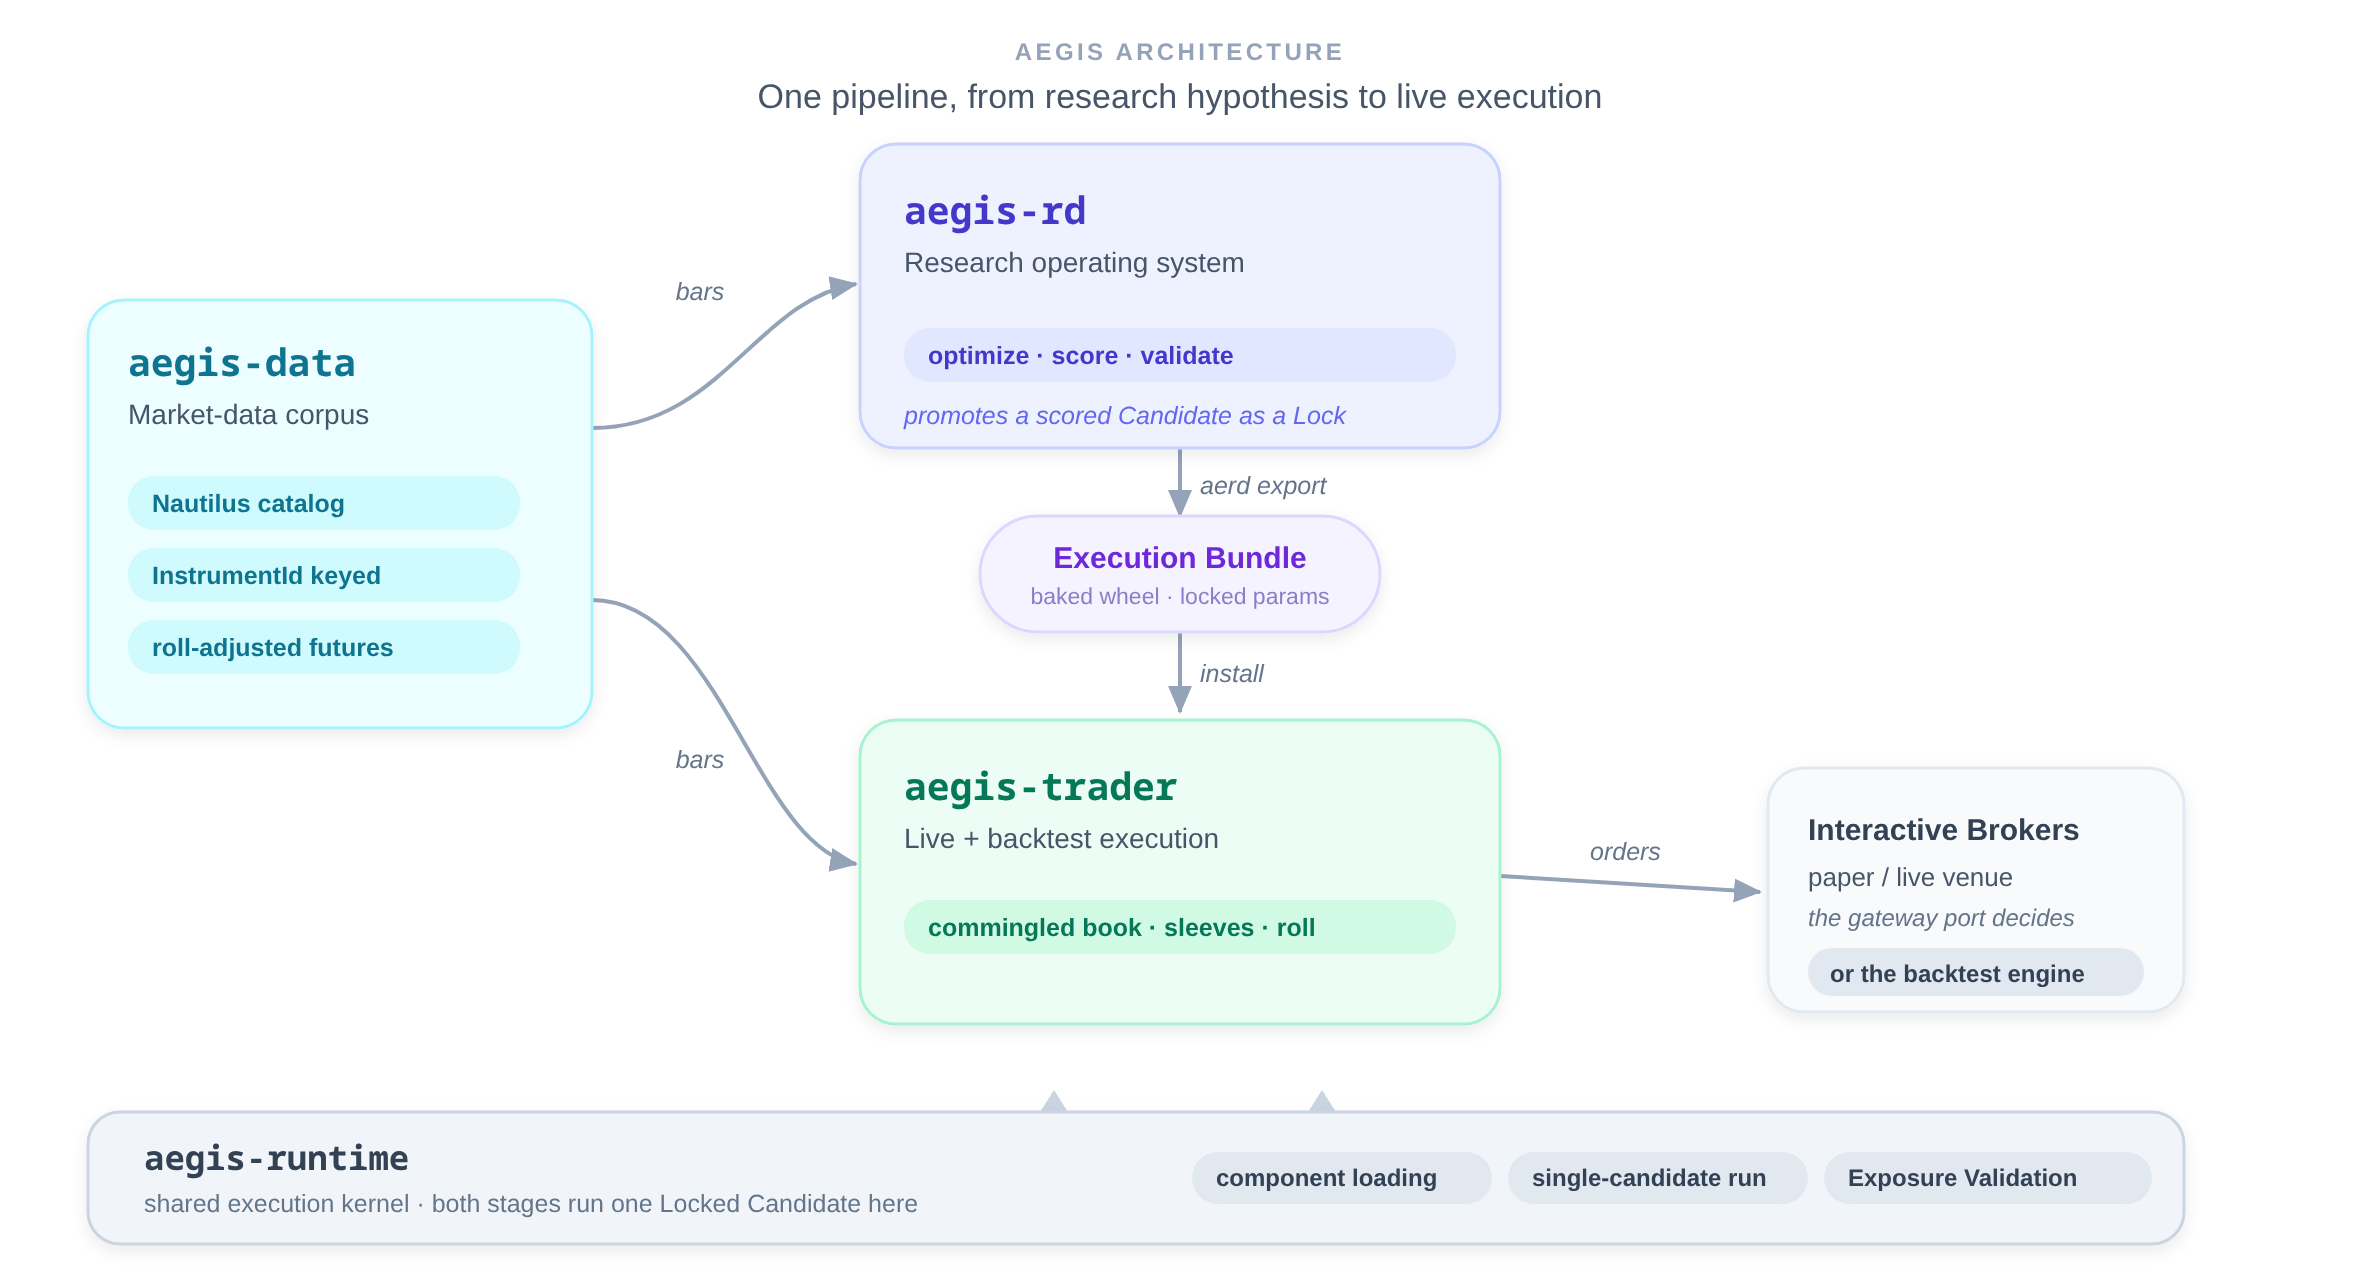
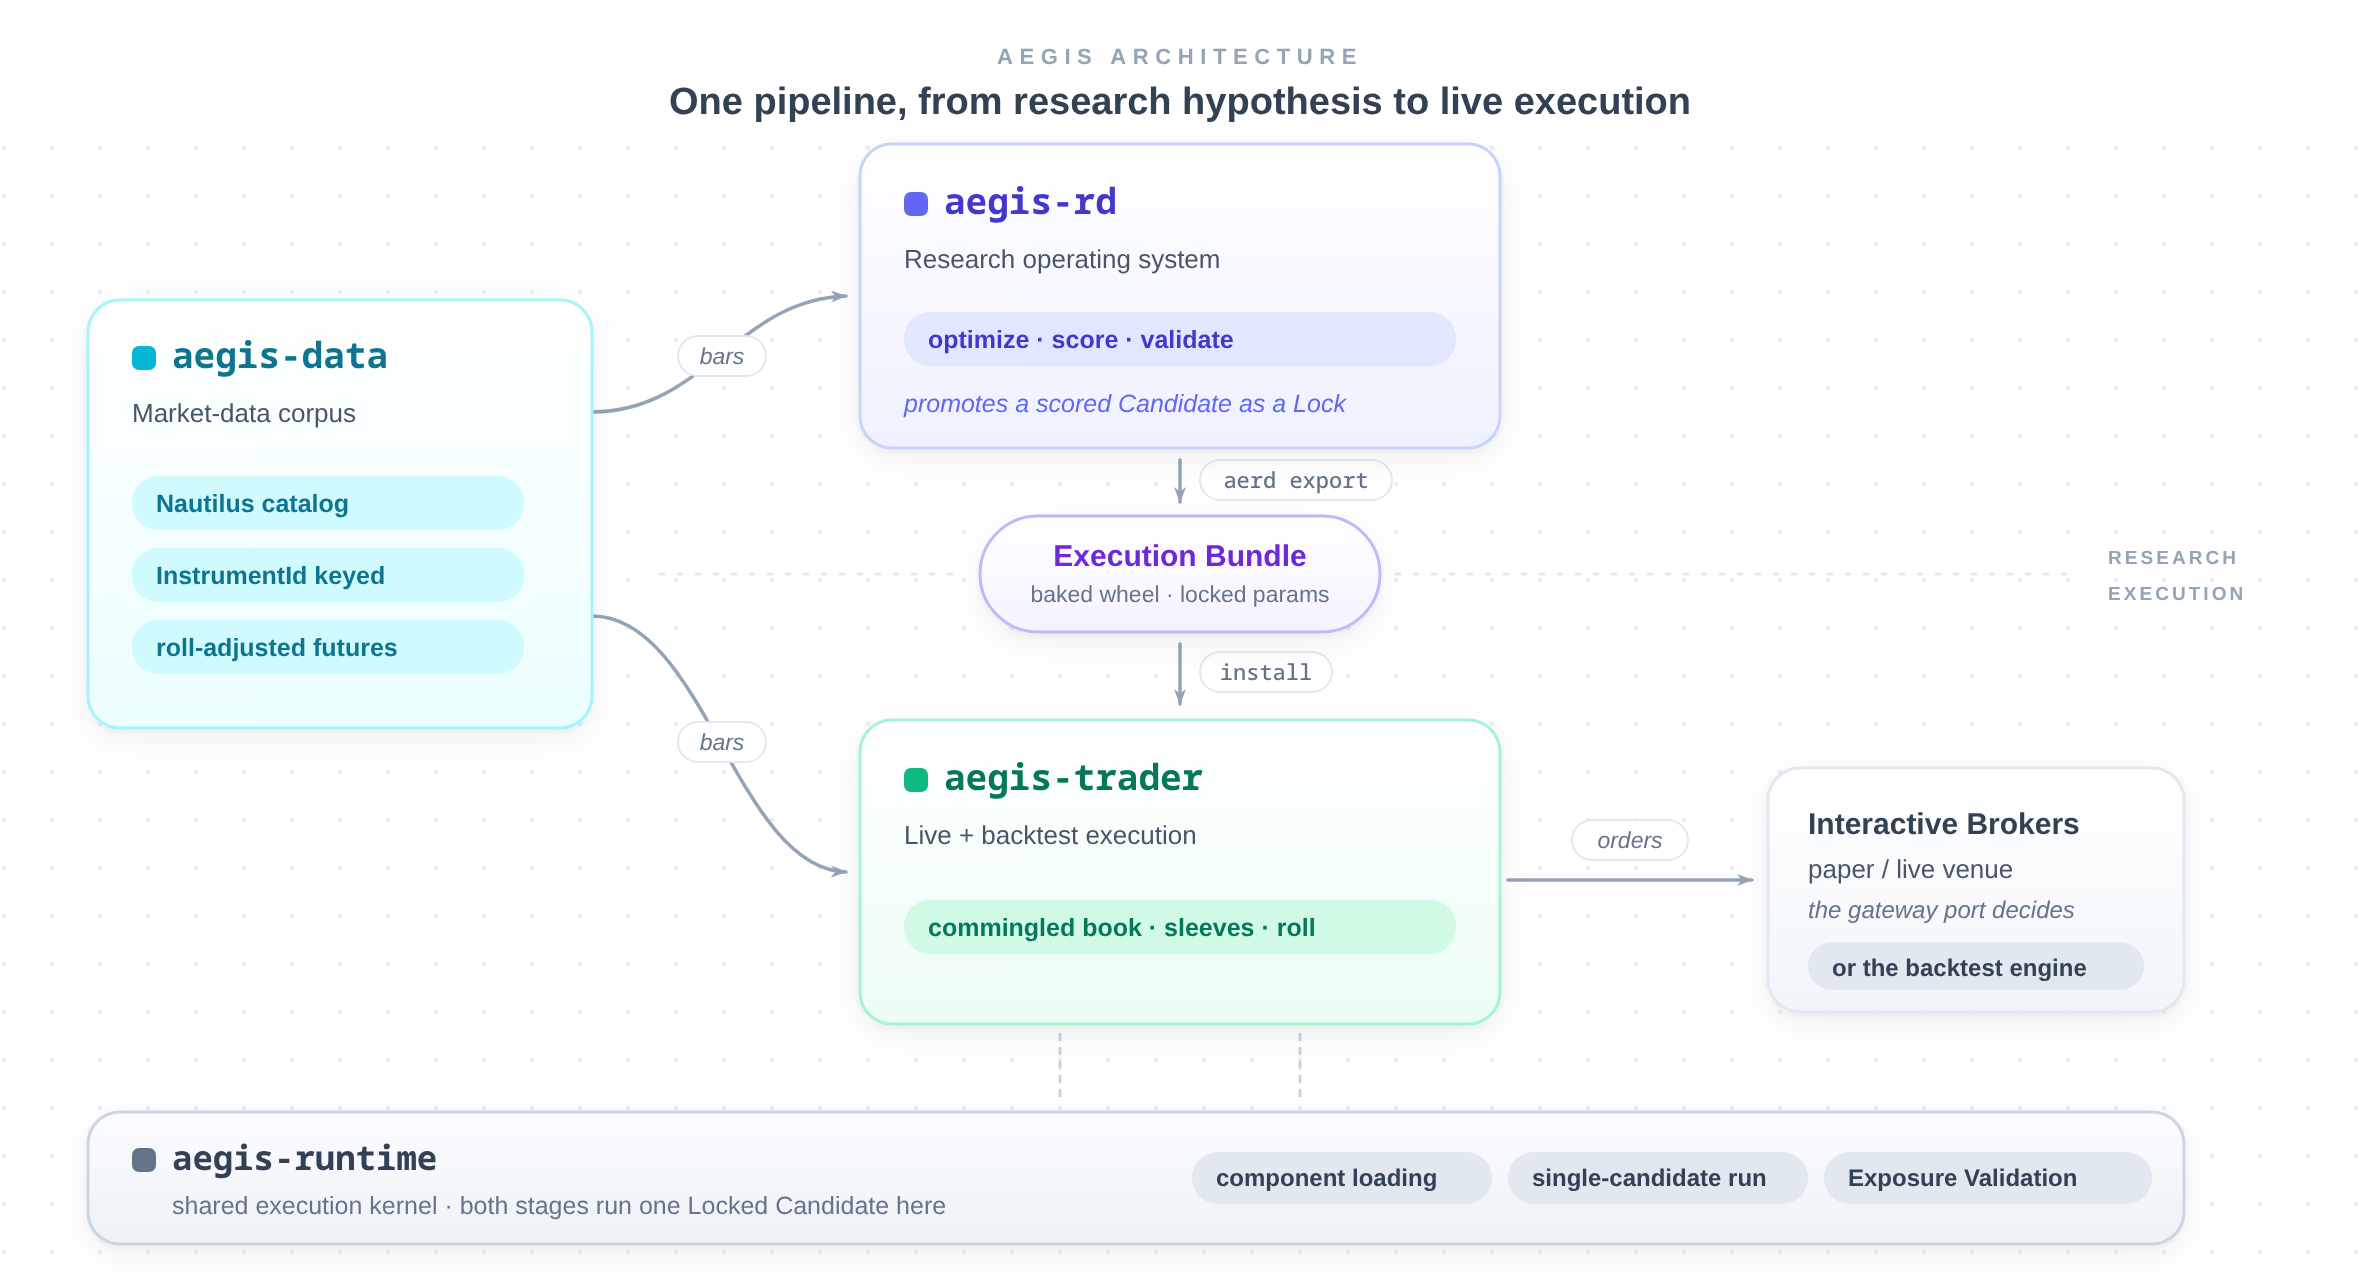
docs: polish the architecture diagram (type lockup, gradient cards, labeled-pill arrows)

diff --git a/docs/assets/architecture.html b/docs/assets/architecture.html
@@ -12,90 +12,134 @@
     -webkit-font-smoothing: antialiased;
   }
   .pkg  { font-family: ui-monospace, "SF Mono", SFMono-Regular, Menlo, Consolas, monospace; font-weight: 700; }
+  .cmd  { font-family: ui-monospace, "SF Mono", SFMono-Regular, Menlo, Consolas, monospace; font-weight: 500; }
   .role { font-weight: 400; }
   .lbl  { font-style: italic; }
   .chip { font-weight: 600; }
-  .stage{ font-weight: 700; letter-spacing: .14em; }
+  .stage{ font-weight: 700; letter-spacing: .3em; }
+  .tag  { font-weight: 700; letter-spacing: .16em; }
 </style>
 </head>
 <body>
 <div class="diagram">
 <svg viewBox="0 0 1180 640" width="1180" height="640" xmlns="http://www.w3.org/2000/svg">
   <defs>
-    <marker id="arrow" markerWidth="9" markerHeight="9" refX="6.5" refY="3" orient="auto" markerUnits="strokeWidth">
-      <path d="M0,0 L7,3 L0,6 Z" fill="#94A3B8"/>
+    <marker id="arrow" markerWidth="10" markerHeight="10" refX="7.5" refY="3" orient="auto" markerUnits="userSpaceOnUse">
+      <path d="M0,0 L8,3 L0,6 L2.2,3 Z" fill="#94A3B8"/>
     </marker>
     <filter id="shadow" x="-20%" y="-20%" width="140%" height="160%">
-      <feDropShadow dx="0" dy="3" stdDeviation="4" flood-color="#0F172A" flood-opacity="0.08"/>
+      <feDropShadow dx="0" dy="1" stdDeviation="1.5" flood-color="#0F172A" flood-opacity="0.05"/>
+      <feDropShadow dx="0" dy="5" stdDeviation="9" flood-color="#0F172A" flood-opacity="0.06"/>
     </filter>
+    <pattern id="dots" width="24" height="24" patternUnits="userSpaceOnUse">
+      <circle cx="2" cy="2" r="1.1" fill="#E2E8F0" fill-opacity="0.7"/>
+    </pattern>
+    <linearGradient id="gData" x1="0" y1="0" x2="0" y2="1">
+      <stop offset="0" stop-color="#FFFFFF"/><stop offset="1" stop-color="#ECFEFF"/>
+    </linearGradient>
+    <linearGradient id="gRd" x1="0" y1="0" x2="0" y2="1">
+      <stop offset="0" stop-color="#FFFFFF"/><stop offset="1" stop-color="#EEF2FF"/>
+    </linearGradient>
+    <linearGradient id="gBundle" x1="0" y1="0" x2="0" y2="1">
+      <stop offset="0" stop-color="#FFFFFF"/><stop offset="1" stop-color="#F5F3FF"/>
+    </linearGradient>
+    <linearGradient id="gTrader" x1="0" y1="0" x2="0" y2="1">
+      <stop offset="0" stop-color="#FFFFFF"/><stop offset="1" stop-color="#ECFDF5"/>
+    </linearGradient>
+    <linearGradient id="gVenue" x1="0" y1="0" x2="0" y2="1">
+      <stop offset="0" stop-color="#FFFFFF"/><stop offset="1" stop-color="#F1F5F9"/>
+    </linearGradient>
+    <linearGradient id="gRuntime" x1="0" y1="0" x2="0" y2="1">
+      <stop offset="0" stop-color="#FBFCFE"/><stop offset="1" stop-color="#EEF2F6"/>
+    </linearGradient>
   </defs>
 
   <rect x="0" y="0" width="1180" height="640" fill="#ffffff"/>
+  <rect x="0" y="72" width="1180" height="568" fill="url(#dots)"/>
 
   <!-- title -->
-  <text x="590" y="30" text-anchor="middle" class="stage" font-size="12" fill="#94A3B8">AEGIS ARCHITECTURE</text>
-  <text x="590" y="54" text-anchor="middle" font-size="17" fill="#475569">One pipeline, from research hypothesis to live execution</text>
+  <text x="590" y="32" text-anchor="middle" class="stage" font-size="11" fill="#94A3B8">AEGIS ARCHITECTURE</text>
+  <text x="590" y="57" text-anchor="middle" font-size="19" font-weight="600" fill="#334155">One pipeline, from research hypothesis to live execution</text>
 
-  <!-- ===== arrows (drawn first, under cards) ===== -->
+  <!-- ===== research / execution boundary (under everything) ===== -->
+  <path d="M330 287 L482 287" fill="none" stroke="#E2E8F0" stroke-width="1.5" stroke-dasharray="2 7" stroke-linecap="round"/>
+  <path d="M698 287 L1040 287" fill="none" stroke="#E2E8F0" stroke-width="1.5" stroke-dasharray="2 7" stroke-linecap="round"/>
+  <text x="1054" y="282" class="tag" font-size="9.5" fill="#94A3B8">RESEARCH</text>
+  <text x="1054" y="300" class="tag" font-size="9.5" fill="#94A3B8">EXECUTION</text>
+
+  <!-- ===== arrows (drawn under cards) ===== -->
   <!-- data -> rd -->
-  <path d="M296 214 C 360 214 378 150 428 142" fill="none" stroke="#94A3B8" stroke-width="2" marker-end="url(#arrow)"/>
-  <text x="350" y="150" text-anchor="middle" class="lbl" font-size="12.5" fill="#64748B">bars</text>
+  <path d="M296 206 C 352 206 368 150 423 148" fill="none" stroke="#94A3B8" stroke-width="1.75" stroke-linecap="round" marker-end="url(#arrow)"/>
   <!-- data -> trader -->
-  <path d="M296 300 C 360 300 378 424 428 432" fill="none" stroke="#94A3B8" stroke-width="2" marker-end="url(#arrow)"/>
-  <text x="350" y="384" text-anchor="middle" class="lbl" font-size="12.5" fill="#64748B">bars</text>
+  <path d="M296 308 C 352 308 368 434 423 436" fill="none" stroke="#94A3B8" stroke-width="1.75" stroke-linecap="round" marker-end="url(#arrow)"/>
   <!-- rd -> bundle -->
-  <path d="M590 224 L 590 258" fill="none" stroke="#94A3B8" stroke-width="2" marker-end="url(#arrow)"/>
-  <text x="600" y="247" class="lbl" font-size="12.5" fill="#64748B">aerd export</text>
+  <path d="M590 230 L 590 251" fill="none" stroke="#94A3B8" stroke-width="1.75" stroke-linecap="round" marker-end="url(#arrow)"/>
   <!-- bundle -> trader -->
-  <path d="M590 316 L 590 356" fill="none" stroke="#94A3B8" stroke-width="2" marker-end="url(#arrow)"/>
-  <text x="600" y="341" class="lbl" font-size="12.5" fill="#64748B">install</text>
+  <path d="M590 322 L 590 352" fill="none" stroke="#94A3B8" stroke-width="1.75" stroke-linecap="round" marker-end="url(#arrow)"/>
   <!-- trader -> venues -->
-  <path d="M750 438 L 880 446" fill="none" stroke="#94A3B8" stroke-width="2" marker-end="url(#arrow)"/>
-  <text x="795" y="430" class="lbl" font-size="12.5" fill="#64748B">orders</text>
-  <!-- support ticks onto runtime -->
-  <path d="M520 556 l 7 -11 l 7 11 Z" fill="#CBD5E1"/>
-  <path d="M654 556 l 7 -11 l 7 11 Z" fill="#CBD5E1"/>
+  <path d="M754 440 L 876 440" fill="none" stroke="#94A3B8" stroke-width="1.75" stroke-linecap="round" marker-end="url(#arrow)"/>
+
+  <!-- arrow labels -->
+  <g>
+    <rect x="339" y="168" width="44" height="20" rx="10" fill="#ffffff" stroke="#E2E8F0"/>
+    <text x="361" y="182" text-anchor="middle" class="lbl" font-size="11.5" fill="#64748B">bars</text>
+    <rect x="339" y="361" width="44" height="20" rx="10" fill="#ffffff" stroke="#E2E8F0"/>
+    <text x="361" y="375" text-anchor="middle" class="lbl" font-size="11.5" fill="#64748B">bars</text>
+    <rect x="600" y="230" width="96" height="20" rx="10" fill="#ffffff" stroke="#E2E8F0"/>
+    <text x="648" y="244" text-anchor="middle" class="cmd" font-size="11" fill="#64748B">aerd export</text>
+    <rect x="600" y="326" width="66" height="20" rx="10" fill="#ffffff" stroke="#E2E8F0"/>
+    <text x="633" y="340" text-anchor="middle" class="cmd" font-size="11" fill="#64748B">install</text>
+    <rect x="786" y="410" width="58" height="20" rx="10" fill="#ffffff" stroke="#E2E8F0"/>
+    <text x="815" y="424" text-anchor="middle" class="lbl" font-size="11.5" fill="#64748B">orders</text>
+  </g>
+
+  <!-- support connectors onto runtime -->
+  <path d="M530 517 L530 551" fill="none" stroke="#CBD5E1" stroke-width="1.5" stroke-dasharray="3 4" stroke-linecap="round"/>
+  <path d="M650 517 L650 551" fill="none" stroke="#CBD5E1" stroke-width="1.5" stroke-dasharray="3 4" stroke-linecap="round"/>
 
   <!-- ===== aegis-data ===== -->
   <g filter="url(#shadow)">
-    <rect x="44" y="150" width="252" height="214" rx="18" fill="#ECFEFF" stroke="#A5F3FC" stroke-width="1.5"/>
+    <rect x="44" y="150" width="252" height="214" rx="16" fill="url(#gData)" stroke="#A5F3FC" stroke-width="1.5"/>
   </g>
-  <text x="64" y="188" class="pkg" font-size="19" fill="#0E7490">aegis-data</text>
-  <text x="64" y="212" class="role" font-size="14" fill="#475569">Market-data corpus</text>
+  <rect x="66" y="173" width="12" height="12" rx="3.5" fill="#06B6D4"/>
+  <text x="86" y="184" class="pkg" font-size="18" fill="#0E7490">aegis-data</text>
+  <text x="66" y="211" class="role" font-size="13" fill="#475569">Market-data corpus</text>
   <g font-size="12.5" class="chip">
-    <rect x="64" y="238" width="196" height="27" rx="13" fill="#CFFAFE"/>
-    <text x="76" y="256" fill="#0E7490">Nautilus catalog</text>
-    <rect x="64" y="274" width="196" height="27" rx="13" fill="#CFFAFE"/>
-    <text x="76" y="292" fill="#0E7490">InstrumentId keyed</text>
-    <rect x="64" y="310" width="196" height="27" rx="13" fill="#CFFAFE"/>
-    <text x="76" y="328" fill="#0E7490">roll-adjusted futures</text>
+    <rect x="66" y="238" width="196" height="27" rx="13" fill="#CFFAFE"/>
+    <text x="78" y="256" fill="#0E7490">Nautilus catalog</text>
+    <rect x="66" y="274" width="196" height="27" rx="13" fill="#CFFAFE"/>
+    <text x="78" y="292" fill="#0E7490">InstrumentId keyed</text>
+    <rect x="66" y="310" width="196" height="27" rx="13" fill="#CFFAFE"/>
+    <text x="78" y="328" fill="#0E7490">roll-adjusted futures</text>
   </g>
 
   <!-- ===== aegis-rd ===== -->
   <g filter="url(#shadow)">
-    <rect x="430" y="72" width="320" height="152" rx="18" fill="#EEF2FF" stroke="#C7D2FE" stroke-width="1.5"/>
+    <rect x="430" y="72" width="320" height="152" rx="16" fill="url(#gRd)" stroke="#C7D2FE" stroke-width="1.5"/>
   </g>
-  <text x="452" y="112" class="pkg" font-size="19" fill="#4338CA">aegis-rd</text>
-  <text x="452" y="136" class="role" font-size="14" fill="#475569">Research operating system</text>
+  <rect x="452" y="96" width="12" height="12" rx="3.5" fill="#6366F1"/>
+  <text x="472" y="107" class="pkg" font-size="18" fill="#4338CA">aegis-rd</text>
+  <text x="452" y="134" class="role" font-size="13" fill="#475569">Research operating system</text>
   <g font-size="12.5" class="chip">
-    <rect x="452" y="164" width="276" height="27" rx="13" fill="#E0E7FF"/>
-    <text x="464" y="182" fill="#4338CA">optimize · score · validate</text>
+    <rect x="452" y="156" width="276" height="27" rx="13" fill="#E0E7FF"/>
+    <text x="464" y="174" fill="#4338CA">optimize · score · validate</text>
   </g>
-  <text x="452" y="212" class="lbl" font-size="12.5" fill="#6366F1">promotes a scored Candidate as a Lock</text>
+  <text x="452" y="206" class="lbl" font-size="12.5" fill="#6366F1">promotes a scored Candidate as a Lock</text>
 
   <!-- ===== Execution Bundle ===== -->
   <g filter="url(#shadow)">
-    <rect x="490" y="258" width="200" height="58" rx="29" fill="#F5F3FF" stroke="#DDD6FE" stroke-width="1.5"/>
+    <rect x="490" y="258" width="200" height="58" rx="29" fill="url(#gBundle)" stroke="#C4B5FD" stroke-width="1.5"/>
   </g>
-  <text x="590" y="284" text-anchor="middle" font-size="15" font-weight="700" fill="#6D28D9">Execution Bundle</text>
-  <text x="590" y="302" text-anchor="middle" font-size="11.5" fill="#8B7EC8">baked wheel · locked params</text>
+  <text x="590" y="283" text-anchor="middle" font-size="15" font-weight="700" fill="#6D28D9">Execution Bundle</text>
+  <text x="590" y="301" text-anchor="middle" font-size="11.5" fill="#64748B">baked wheel · locked params</text>
 
   <!-- ===== aegis-trader ===== -->
   <g filter="url(#shadow)">
-    <rect x="430" y="360" width="320" height="152" rx="18" fill="#ECFDF5" stroke="#A7F3D0" stroke-width="1.5"/>
+    <rect x="430" y="360" width="320" height="152" rx="16" fill="url(#gTrader)" stroke="#A7F3D0" stroke-width="1.5"/>
   </g>
-  <text x="452" y="400" class="pkg" font-size="19" fill="#047857">aegis-trader</text>
-  <text x="452" y="424" class="role" font-size="14" fill="#475569">Live + backtest execution</text>
+  <rect x="452" y="384" width="12" height="12" rx="3.5" fill="#10B981"/>
+  <text x="472" y="395" class="pkg" font-size="18" fill="#047857">aegis-trader</text>
+  <text x="452" y="422" class="role" font-size="13" fill="#475569">Live + backtest execution</text>
   <g font-size="12.5" class="chip">
     <rect x="452" y="450" width="276" height="27" rx="13" fill="#D1FAE5"/>
     <text x="464" y="468" fill="#047857">commingled book · sleeves · roll</text>
@@ -103,22 +147,23 @@
 
   <!-- ===== venues ===== -->
   <g filter="url(#shadow)">
-    <rect x="884" y="384" width="208" height="122" rx="18" fill="#F8FAFC" stroke="#E2E8F0" stroke-width="1.5"/>
+    <rect x="884" y="384" width="208" height="122" rx="16" fill="url(#gVenue)" stroke="#E2E8F0" stroke-width="1.5"/>
   </g>
-  <text x="904" y="420" font-size="15" font-weight="700" fill="#334155">Interactive Brokers</text>
-  <text x="904" y="443" class="role" font-size="13" fill="#475569">paper / live venue</text>
-  <text x="904" y="463" class="lbl" font-size="12" fill="#64748B">the gateway port decides</text>
+  <text x="904" y="417" font-size="15" font-weight="700" fill="#334155">Interactive Brokers</text>
+  <text x="904" y="439" class="role" font-size="13" fill="#475569">paper / live venue</text>
+  <text x="904" y="459" class="lbl" font-size="12" fill="#64748B">the gateway port decides</text>
   <g font-size="12" class="chip">
-    <rect x="904" y="474" width="168" height="24" rx="12" fill="#E2E8F0"/>
-    <text x="915" y="491" fill="#334155">or the backtest engine</text>
+    <rect x="904" y="471" width="168" height="24" rx="12" fill="#E2E8F0"/>
+    <text x="916" y="488" fill="#334155">or the backtest engine</text>
   </g>
 
   <!-- ===== aegis-runtime (foundation) ===== -->
   <g filter="url(#shadow)">
-    <rect x="44" y="556" width="1048" height="66" rx="16" fill="#F1F5F9" stroke="#CBD5E1" stroke-width="1.5"/>
+    <rect x="44" y="556" width="1048" height="66" rx="16" fill="url(#gRuntime)" stroke="#CBD5E1" stroke-width="1.5"/>
   </g>
-  <text x="72" y="585" class="pkg" font-size="17" fill="#334155">aegis-runtime</text>
-  <text x="72" y="606" class="role" font-size="12.5" fill="#64748B">shared execution kernel · both stages run one Locked Candidate here</text>
+  <rect x="66" y="574" width="12" height="12" rx="3.5" fill="#64748B"/>
+  <text x="86" y="585" class="pkg" font-size="17" fill="#334155">aegis-runtime</text>
+  <text x="86" y="607" class="role" font-size="12.5" fill="#64748B">shared execution kernel · both stages run one Locked Candidate here</text>
   <g font-size="12" class="chip">
     <rect x="596" y="576" width="150" height="26" rx="13" fill="#E2E8F0"/>
     <text x="608" y="593" fill="#334155">component loading</text>
